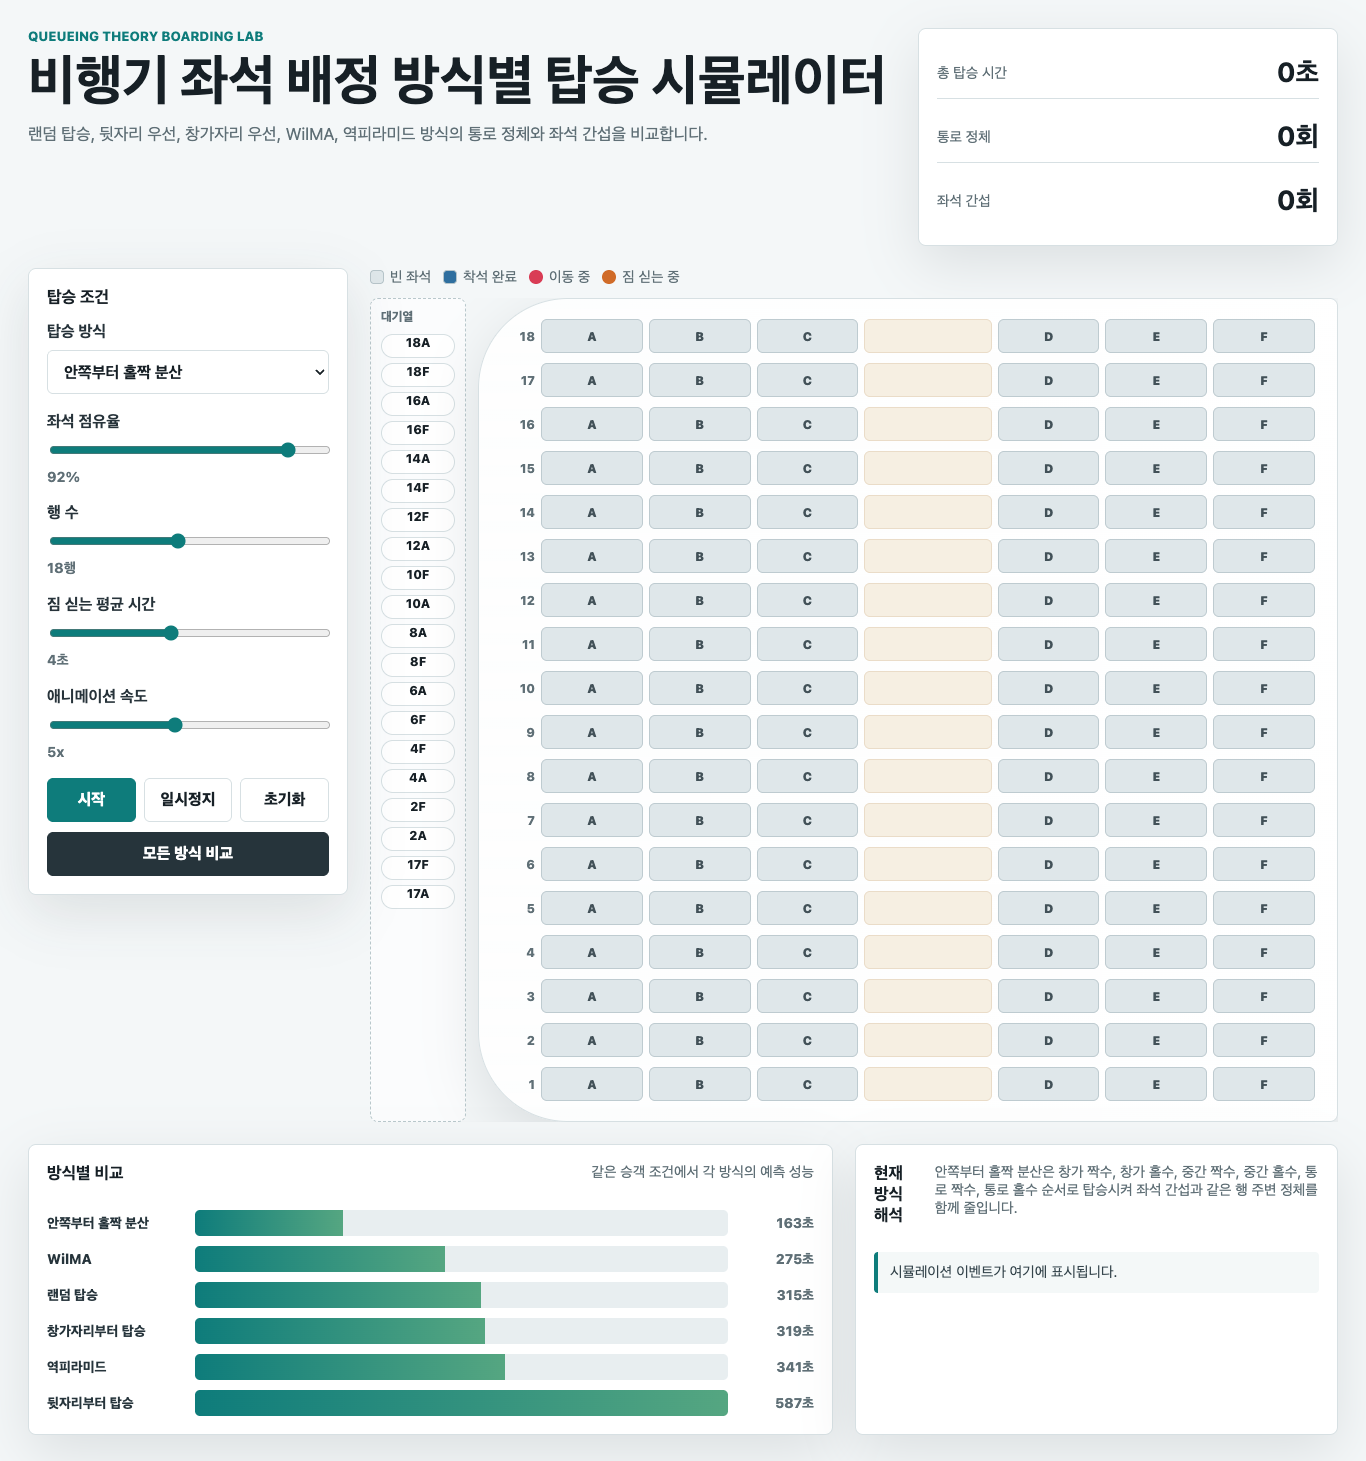
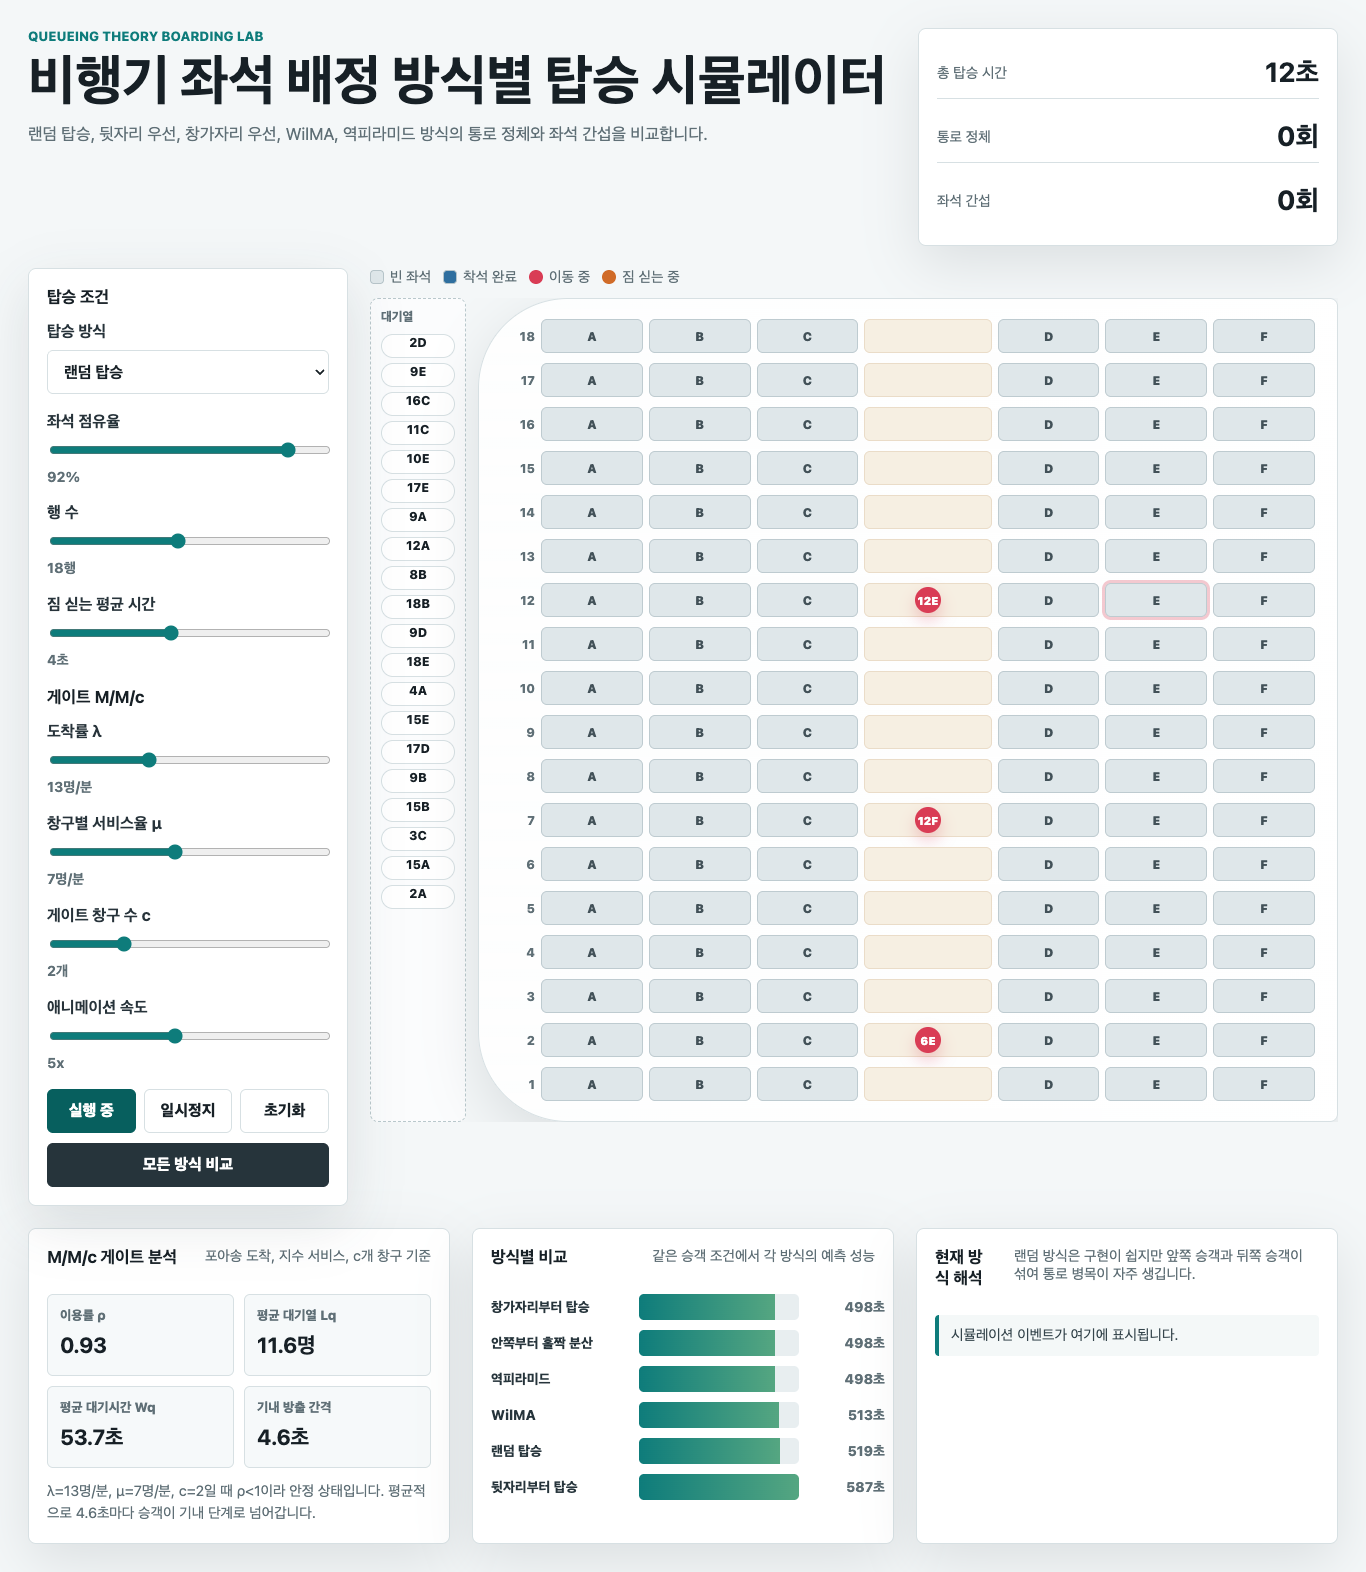
Add M/M/c gate queue model

diff --git a/app.js b/app.js
@@ -26,6 +26,9 @@ const state = {
   rows: 18,
   loadFactor: 92,
   bagTime: 4,
+  arrivalRate: 13,
+  serviceRate: 7,
+  gateServers: 2,
   speed: 5,
   strategy: "random",
   running: false,
@@ -39,14 +42,25 @@ const els = {
   loadFactor: document.querySelector("#loadFactor"),
   rows: document.querySelector("#rows"),
   bagTime: document.querySelector("#bagTime"),
+  arrivalRate: document.querySelector("#arrivalRate"),
+  serviceRate: document.querySelector("#serviceRate"),
+  gateServers: document.querySelector("#gateServers"),
   speed: document.querySelector("#speed"),
   loadFactorLabel: document.querySelector("#loadFactorLabel"),
   rowsLabel: document.querySelector("#rowsLabel"),
   bagTimeLabel: document.querySelector("#bagTimeLabel"),
+  arrivalRateLabel: document.querySelector("#arrivalRateLabel"),
+  serviceRateLabel: document.querySelector("#serviceRateLabel"),
+  gateServersLabel: document.querySelector("#gateServersLabel"),
   speedLabel: document.querySelector("#speedLabel"),
   totalTime: document.querySelector("#totalTime"),
   blockedTicks: document.querySelector("#blockedTicks"),
   seatInterference: document.querySelector("#seatInterference"),
+  rhoValue: document.querySelector("#rhoValue"),
+  lqValue: document.querySelector("#lqValue"),
+  wqValue: document.querySelector("#wqValue"),
+  releaseValue: document.querySelector("#releaseValue"),
+  mmNote: document.querySelector("#mmNote"),
   queue: document.querySelector("#queue"),
   aircraft: document.querySelector("#aircraft"),
   comparisonChart: document.querySelector("#comparisonChart"),
@@ -86,6 +100,46 @@ function rowBand(row, rows) {
   if (row > rows * 0.66) return 0;
   if (row > rows * 0.33) return 1;
   return 2;
+}
+
+function factorial(value) {
+  let result = 1;
+  for (let i = 2; i <= value; i += 1) result *= i;
+  return result;
+}
+
+function mmcMetrics(lambda = state.arrivalRate, mu = state.serviceRate, servers = state.gateServers) {
+  const rho = lambda / (servers * mu);
+  const capacityRate = Math.min(lambda, servers * mu);
+  const releaseInterval = 60 / Math.max(capacityRate, 0.1);
+
+  if (rho >= 1) {
+    return {
+      rho,
+      lq: Infinity,
+      wqSeconds: Infinity,
+      releaseInterval,
+      stable: false,
+    };
+  }
+
+  const traffic = lambda / mu;
+  let sum = 0;
+  for (let n = 0; n < servers; n += 1) {
+    sum += traffic ** n / factorial(n);
+  }
+  const last = traffic ** servers / (factorial(servers) * (1 - rho));
+  const p0 = 1 / (sum + last);
+  const lq = (p0 * traffic ** servers * rho) / (factorial(servers) * (1 - rho) ** 2);
+  const wqSeconds = (lq / lambda) * 60;
+
+  return {
+    rho,
+    lq,
+    wqSeconds,
+    releaseInterval,
+    stable: true,
+  };
 }
 
 function insideOutOddEvenGroup(passenger) {
@@ -149,6 +203,8 @@ function createSimulation(strategy = state.strategy, animate = true) {
     aisle: Array(state.rows).fill(null),
     seated: new Map(),
     passengers: queue,
+    nextGateRelease: 0,
+    gateHoldTicks: 0,
     blockedTicks: 0,
     seatInterference: 0,
     events: [],
@@ -209,14 +265,20 @@ function stepSimulation(sim) {
     }
   }
 
-  if (sim.nextIndex < sim.passengers.length && sim.aisle[0] === null) {
+  const gate = mmcMetrics();
+  const canReleaseFromGate = sim.time >= sim.nextGateRelease;
+
+  if (sim.nextIndex < sim.passengers.length && sim.aisle[0] === null && canReleaseFromGate) {
     const passenger = sim.passengers[sim.nextIndex];
     passenger.status = "moving";
     passenger.position = 0;
     sim.aisle[0] = passenger;
     sim.nextIndex += 1;
-  } else if (sim.nextIndex < sim.passengers.length) {
+    sim.nextGateRelease = sim.time + gate.releaseInterval;
+  } else if (sim.nextIndex < sim.passengers.length && sim.aisle[0] !== null) {
     sim.blockedTicks += 1;
+  } else if (sim.nextIndex < sim.passengers.length && !canReleaseFromGate) {
+    sim.gateHoldTicks += 1;
   }
 
   sim.done = sim.nextIndex >= sim.passengers.length && sim.aisle.every((spot) => spot === null);
@@ -281,10 +343,18 @@ function renderQueue() {
 
 function renderStats() {
   const sim = state.sim;
+  const gate = mmcMetrics();
   els.totalTime.textContent = `${sim?.time || 0}초`;
   els.blockedTicks.textContent = `${sim?.blockedTicks || 0}회`;
   els.seatInterference.textContent = `${sim?.seatInterference || 0}회`;
   els.strategyNote.textContent = strategyNotes[state.strategy];
+  els.rhoValue.textContent = Number.isFinite(gate.rho) ? gate.rho.toFixed(2) : "불안정";
+  els.lqValue.textContent = Number.isFinite(gate.lq) ? `${gate.lq.toFixed(1)}명` : "무한대";
+  els.wqValue.textContent = Number.isFinite(gate.wqSeconds) ? `${gate.wqSeconds.toFixed(1)}초` : "무한대";
+  els.releaseValue.textContent = `${gate.releaseInterval.toFixed(1)}초`;
+  els.mmNote.textContent = gate.stable
+    ? `λ=${state.arrivalRate}명/분, μ=${state.serviceRate}명/분, c=${state.gateServers}일 때 ρ<1이라 안정 상태입니다. 평균적으로 ${gate.releaseInterval.toFixed(1)}초마다 승객이 기내 단계로 넘어갑니다.`
+    : `λ가 cμ보다 커서 ρ≥1입니다. 이 경우 M/M/c 대기열은 안정 상태가 아니므로 게이트 앞 대기열이 계속 증가합니다.`;
 }
 
 function renderEvents() {
@@ -376,17 +446,23 @@ function updateSettingsFromControls() {
   state.loadFactor = Number(els.loadFactor.value);
   state.rows = Number(els.rows.value);
   state.bagTime = Number(els.bagTime.value);
+  state.arrivalRate = Number(els.arrivalRate.value);
+  state.serviceRate = Number(els.serviceRate.value);
+  state.gateServers = Number(els.gateServers.value);
   state.speed = Number(els.speed.value);
 
   els.loadFactorLabel.textContent = state.loadFactor;
   els.rowsLabel.textContent = state.rows;
   els.bagTimeLabel.textContent = state.bagTime;
+  els.arrivalRateLabel.textContent = state.arrivalRate;
+  els.serviceRateLabel.textContent = state.serviceRate;
+  els.gateServersLabel.textContent = state.gateServers;
   els.speedLabel.textContent = state.speed;
   els.strategyNote.textContent = strategyNotes[state.strategy];
 }
 
 function bindControls() {
-  for (const control of [els.strategy, els.loadFactor, els.rows, els.bagTime, els.speed]) {
+  for (const control of [els.strategy, els.loadFactor, els.rows, els.bagTime, els.arrivalRate, els.serviceRate, els.gateServers, els.speed]) {
     control.addEventListener("input", () => {
       updateSettingsFromControls();
       if (control !== els.speed) resetSimulation(false);

diff --git a/index.html b/index.html
@@ -66,6 +66,26 @@
             <span class="range-readout"><span id="bagTimeLabel">4</span>초</span>
           </label>
 
+          <h2>게이트 M/M/c</h2>
+
+          <label>
+            도착률 λ
+            <input id="arrivalRate" type="range" min="4" max="30" value="13" step="1" />
+            <span class="range-readout"><span id="arrivalRateLabel">13</span>명/분</span>
+          </label>
+
+          <label>
+            창구별 서비스율 μ
+            <input id="serviceRate" type="range" min="3" max="12" value="7" step="1" />
+            <span class="range-readout"><span id="serviceRateLabel">7</span>명/분</span>
+          </label>
+
+          <label>
+            게이트 창구 수 c
+            <input id="gateServers" type="range" min="1" max="5" value="2" step="1" />
+            <span class="range-readout"><span id="gateServersLabel">2</span>개</span>
+          </label>
+
           <label>
             애니메이션 속도
             <input id="speed" type="range" min="1" max="10" value="5" step="1" />
@@ -96,6 +116,31 @@
       </section>
 
       <section class="analytics">
+        <div class="chart-panel">
+          <div class="panel-title">
+            <h2>M/M/c 게이트 분석</h2>
+            <p>포아송 도착, 지수 서비스, c개 창구 기준</p>
+          </div>
+          <div class="mm-grid">
+            <div>
+              <span>이용률 ρ</span>
+              <strong id="rhoValue">0.00</strong>
+            </div>
+            <div>
+              <span>평균 대기열 Lq</span>
+              <strong id="lqValue">0.0명</strong>
+            </div>
+            <div>
+              <span>평균 대기시간 Wq</span>
+              <strong id="wqValue">0.0초</strong>
+            </div>
+            <div>
+              <span>기내 방출 간격</span>
+              <strong id="releaseValue">0.0초</strong>
+            </div>
+          </div>
+          <p id="mmNote" class="model-note"></p>
+        </div>
         <div class="chart-panel">
           <div class="panel-title">
             <h2>방식별 비교</h2>

diff --git a/styles.css b/styles.css
@@ -368,7 +368,7 @@ button.wide {
 
 .analytics {
   display: grid;
-  grid-template-columns: minmax(0, 1.25fr) minmax(320px, 0.75fr);
+  grid-template-columns: repeat(3, minmax(0, 1fr));
   gap: 22px;
   margin-top: 22px;
 }
@@ -394,6 +394,39 @@ button.wide {
 .chart {
   display: grid;
   gap: 10px;
+}
+
+.mm-grid {
+  display: grid;
+  grid-template-columns: repeat(2, minmax(0, 1fr));
+  gap: 10px;
+}
+
+.mm-grid div {
+  min-height: 82px;
+  padding: 12px;
+  border: 1px solid var(--line);
+  border-radius: 6px;
+  background: #f6f9fa;
+}
+
+.mm-grid span {
+  display: block;
+  margin-bottom: 8px;
+  color: var(--muted);
+  font-size: 0.82rem;
+  font-weight: 800;
+}
+
+.mm-grid strong {
+  font-size: 1.35rem;
+}
+
+.model-note {
+  margin: 12px 0 0;
+  color: var(--muted);
+  font-size: 0.9rem;
+  line-height: 1.55;
 }
 
 .bar-row {